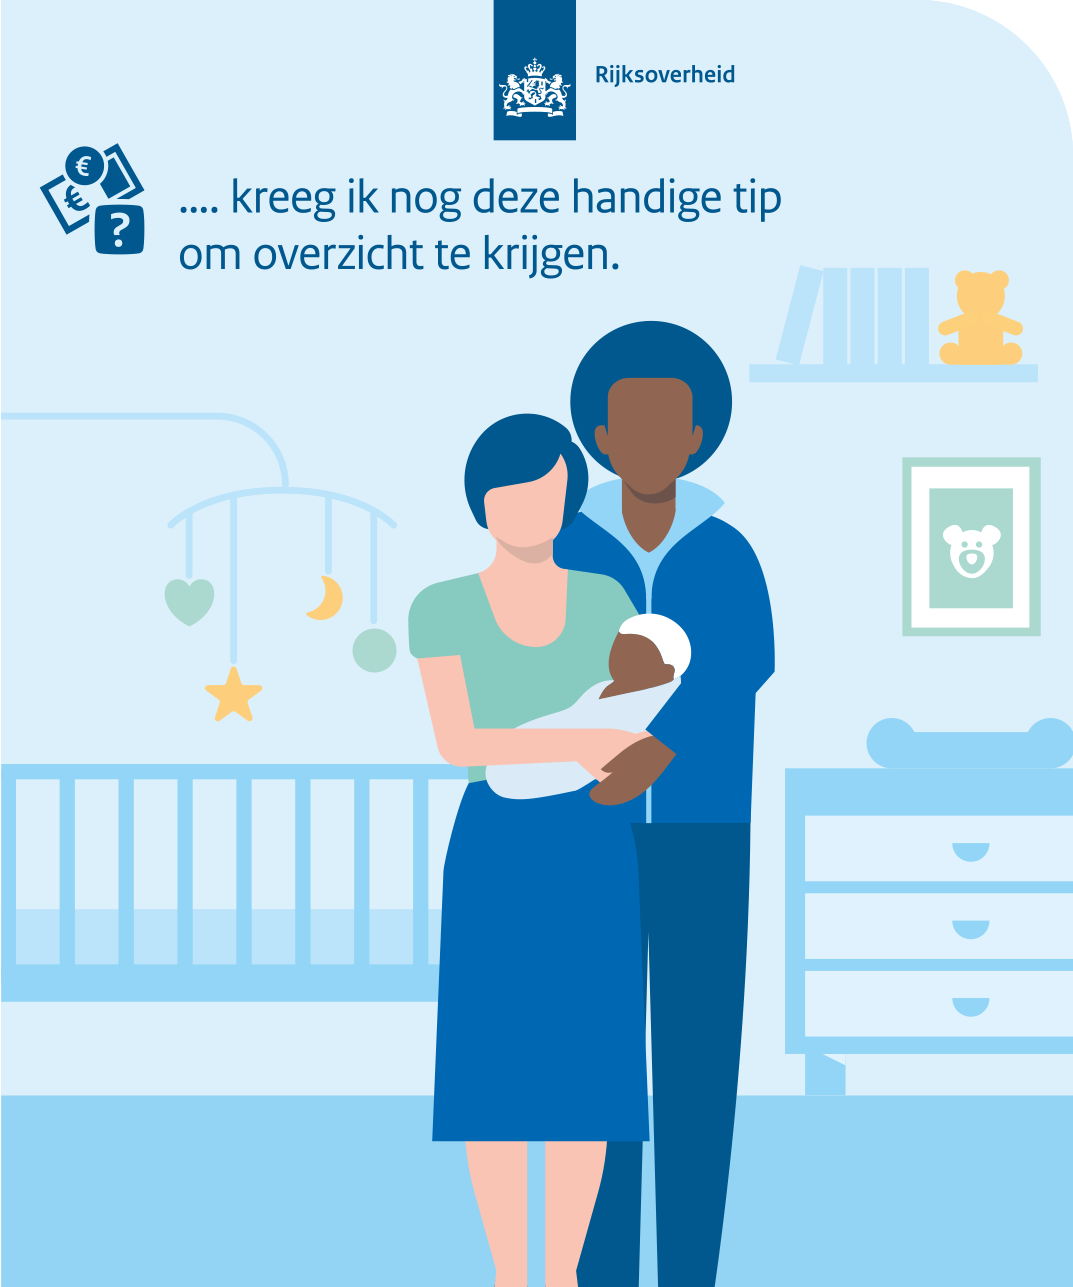
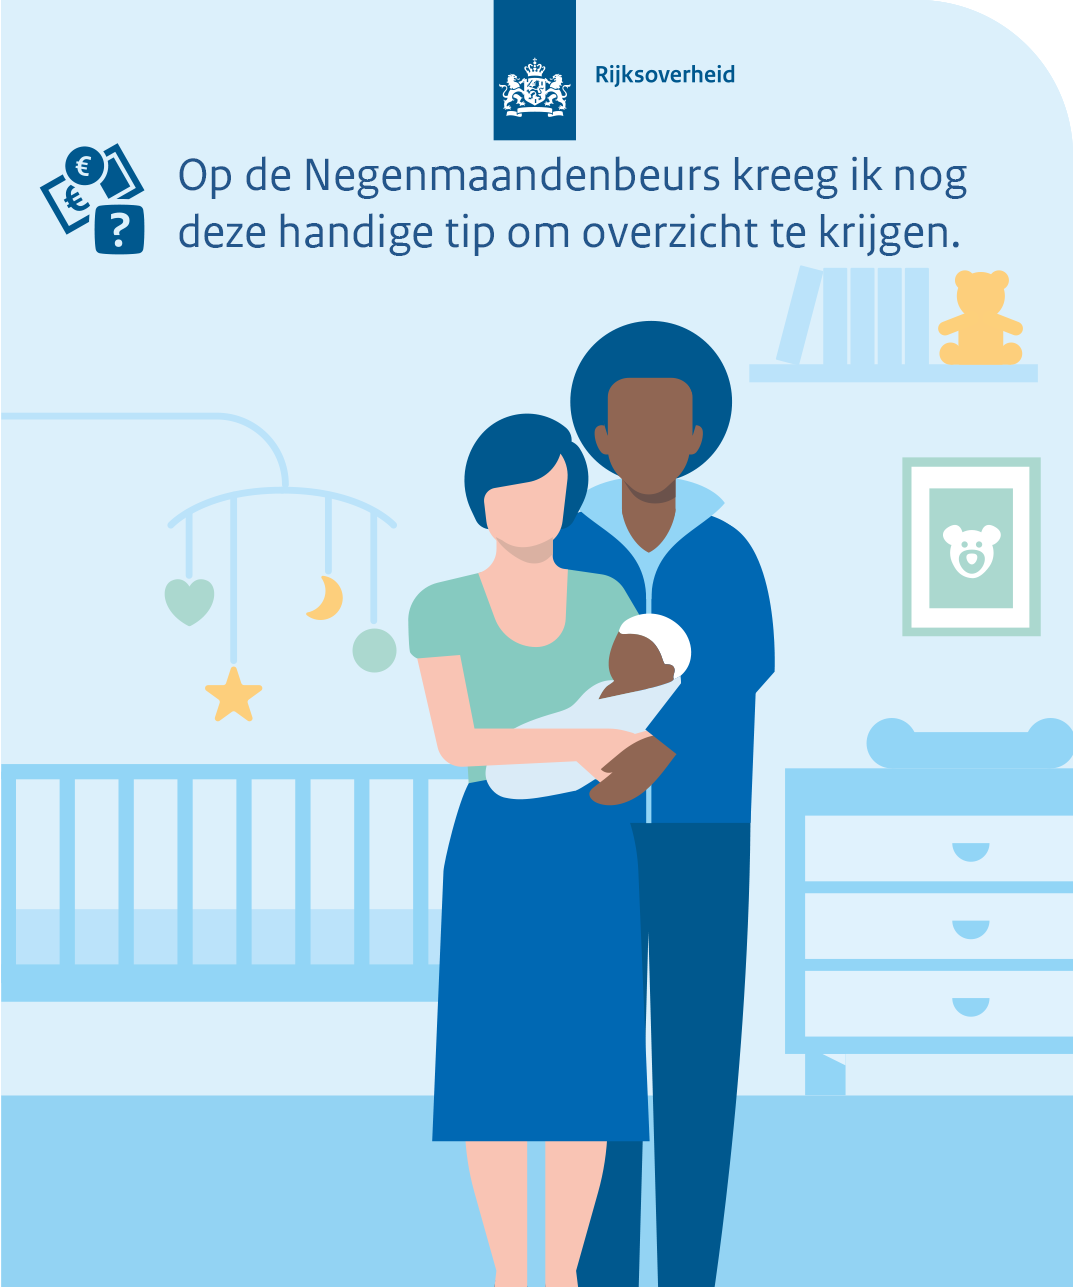
add small changers

Changed region(s): [[0.1538, 0.1243, 0.9226, 0.2176]]

diff --git a/resources/views/components/postcard-show.blade.php b/resources/views/components/postcard-show.blade.php
@@ -35,7 +35,7 @@ new class extends Component {
         $this->validate([
             'name' => 'required',
             'email' => 'required|email',
-            'message' => 'required',
+            'message' => 'nullable',
             'duration' => 'required',
             'consent' => 'accepted',
         ]);
@@ -94,7 +94,7 @@ new class extends Component {
             @if($submitted)
                 <div class="space-y-8 animate-fade-in">
                     <div class="space-y-4 mb-2">
-                        <h2 class="font-display text-3xl md:text-4xl font-bold text-[#23568b] leading-tight">Beste
+                        <h2 class="font-display text-3xl md:text-4xl font-bold text-[#23568b] leading-tight mb-6">Beste
                             {{ $name }},
                         </h2>
                         <p class="text-lg text-gray-700 leading-relaxed font-sans">
@@ -109,21 +109,81 @@ new class extends Component {
                     </div>
 
                     <div class="pt-8 space-y-3 mb-2">
-                        <button wire:click="resetForm" x-data="{ timeLeft: 15, timer: null }"
+                        <button wire:click="resetForm" x-data="{ timeLeft: 25, timer: null }"
                             x-init="timer = setInterval(() => { if(timeLeft > 0) { timeLeft--; } else { clearInterval(timer); $wire.resetForm(); } }, 1000)"
                             class="w-full inline-flex items-center justify-center px-6 py-2.5 border border-transparent text-sm font-medium rounded-full text-white bg-[#23568b] hover:bg-[#1a4066] focus:outline-none focus:ring-2 focus:ring-offset-2 focus:ring-[#23568b] transition-all duration-300 shadow-lg hover:shadow-xl transform hover:-translate-y-0.5 cursor-pointer">
                             Terug naar start (<span x-text="timeLeft"></span>s)
                         </button>
 
-                        <a href="https://google.nl" target="_blank"
-                            class="group w-full inline-flex items-center justify-center gap-2 px-6 py-2.5 border border-gray-200 shadow-sm text-sm font-medium rounded-full text-gray-700 bg-white hover:bg-[#23568b]/5 hover:border-[#23568b] hover:text-[#23568b] focus:outline-none focus:ring-2 focus:ring-offset-2 focus:ring-[#23568b] transition-all duration-300 cursor-pointer transform hover:scale-[1.02] active:scale-[0.98] hover:shadow-md">
-                            Persoonlijk overzicht
-                            <svg class="w-4 h-4 text-gray-400 group-hover:text-[#23568b] transition-colors" fill="none"
-                                stroke="currentColor" viewBox="0 0 24 24">
-                                <path stroke-linecap="round" stroke-linejoin="round" stroke-width="2"
-                                    d="M10 6H6a2 2 0 00-2 2v10a2 2 0 002 2h10a2 2 0 002-2v-4M14 4h6m0 0v6m0-6L10 14"></path>
-                            </svg>
-                        </a>
+                        <!-- <a href="https://google.nl" target="_blank"
+                                                                        class="group w-full inline-flex items-center justify-center gap-2 px-6 py-2.5 border border-gray-200 shadow-sm text-sm font-medium rounded-full text-gray-700 bg-white hover:bg-[#23568b]/5 hover:border-[#23568b] hover:text-[#23568b] focus:outline-none focus:ring-2 focus:ring-offset-2 focus:ring-[#23568b] transition-all duration-300 cursor-pointer transform hover:scale-[1.02] active:scale-[0.98] hover:shadow-md">
+                                                                        Persoonlijk overzicht
+                                                                        <svg class="w-4 h-4 text-gray-400 group-hover:text-[#23568b] transition-colors" fill="none"
+                                                                            stroke="currentColor" viewBox="0 0 24 24">
+                                                                            <path stroke-linecap="round" stroke-linejoin="round" stroke-width="2"
+                                                                                d="M10 6H6a2 2 0 00-2 2v10a2 2 0 002 2h10a2 2 0 002-2v-4M14 4h6m0 0v6m0-6L10 14"></path>
+                                                                        </svg>
+                                                                    </a> -->
+
+                        <div class="grid grid-cols-2 gap-8 mt-8">
+                            <div class="flex flex-col items-center space-y-4 relative group">
+                                <div
+                                    class="bg-white p-3 rounded-xl shadow-sm border border-gray-100 relative z-10 transition-transform duration-300 group-hover:scale-105">
+                                    <img src="{{ asset('images/checklist_kind_krijgen.png') }}"
+                                        alt="QR Code Checklist Kind Krijgen" class="w-32 h-32 object-contain">
+
+                                    <!-- User Provided Arrow (Points Top-Left from bottom-right) -->
+                                    <svg class="absolute -right-14 -bottom-6 w-16 h-16 text-[#23568b] transform -rotate-12 hidden md:block opacity-90"
+                                        viewBox="0 0 473.654 473.654" xmlns="http://www.w3.org/2000/svg"
+                                        fill="currentColor">
+                                        <path d="M143.386,111.189c27.011-17.31,54.018-34.625,81.029-51.939c2.891-1.855,5.688-1.249,7.632,0.471
+                                                                    c1.687,1.088,2.887,2.921,2.887,5.55c0,11.286,0,22.572,0,33.858
+                                                                    c81.47,3.841,145.372,69.122,146.958,151.221
+                                                                    c1.608,83.594-70.248,149.852-151.415,151.415
+                                                                    c-25.336,0.49-25.291-38.783,0-39.266
+                                                                    c62.073-1.197,110.953-50.077,112.15-112.15
+                                                                    c1.167-60.54-49.288-108.534-107.692-111.955
+                                                                    c0,10.25,0,20.5,0,30.751
+                                                                    c0,5.172-5.987,9.035-10.564,6.099
+                                                                    c-27.011-17.31-54.018-34.625-81.029-51.939
+                                                                    C138.794,120.396,138.869,114.087,143.386,111.189z" />
+                                    </svg>
+                                </div>
+                                <span
+                                    class="text-lg font-medium text-center text-[#23568b] leading-tight block w-full px-2 max-w-[200px]">
+                                    Persoonlijke overzicht bij het krijgen van een baby
+                                </span>
+                            </div>
+
+                            <div class="flex flex-col items-center space-y-4 relative group">
+                                <div
+                                    class="bg-white p-3 rounded-xl shadow-sm border border-gray-100 relative z-10 transition-transform duration-300 group-hover:scale-105">
+                                    <img src="{{ asset('images/checklist_having_a_baby.png') }}"
+                                        alt="QR Code Checklist Having a Baby" class="w-32 h-32 object-contain">
+
+                                    <!-- User Provided Arrow (Points from right side) -->
+                                    <svg class="absolute -right-14 -bottom-6 w-16 h-16 text-[#23568b] transform -rotate-12 hidden md:block opacity-90"
+                                        viewBox="0 0 473.654 473.654" xmlns="http://www.w3.org/2000/svg"
+                                        fill="currentColor">
+                                        <path d="M143.386,111.189c27.011-17.31,54.018-34.625,81.029-51.939c2.891-1.855,5.688-1.249,7.632,0.471
+                                                                    c1.687,1.088,2.887,2.921,2.887,5.55c0,11.286,0,22.572,0,33.858
+                                                                    c81.47,3.841,145.372,69.122,146.958,151.221
+                                                                    c1.608,83.594-70.248,149.852-151.415,151.415
+                                                                    c-25.336,0.49-25.291-38.783,0-39.266
+                                                                    c62.073-1.197,110.953-50.077,112.15-112.15
+                                                                    c1.167-60.54-49.288-108.534-107.692-111.955
+                                                                    c0,10.25,0,20.5,0,30.751
+                                                                    c0,5.172-5.987,9.035-10.564,6.099
+                                                                    c-27.011-17.31-54.018-34.625-81.029-51.939
+                                                                    C138.794,120.396,138.869,114.087,143.386,111.189z" />
+                                    </svg>
+                                </div>
+                                <span
+                                    class="text-lg font-medium text-center text-[#23568b] leading-tight block w-full px-2 max-w-[200px]">
+                                    Personal checklist having a baby
+                                </span>
+                            </div>
+                        </div>
                     </div>
                 </div>
             @else
@@ -160,13 +220,14 @@ new class extends Component {
                             <input type="email" id="email" wire:model="email"
                                 class="block w-full rounded-xl border-transparent bg-gray-50 pl-9 p-2.5 text-gray-900 shadow-sm transition-all duration-200 placeholder:text-gray-400 focus:bg-white hover:bg-white focus:border-[#23568b] focus:ring-[#23568b] focus:ring-1 text-sm">
                         </div>
-                        @error('email') <span class="text-red-500 text-sm ml-1">Het e-mailveld is verplicht.</span> @enderror
+                        @error('email') <span class="text-red-500 text-sm ml-1">Het e-mailveld is verplicht.</span>
+                        @enderror
                     </div>
 
                     {{-- Message --}}
                     <div class="space-y-1 mb-2">
                         <label for="message" class="block text-sm font-medium text-gray-500 ml-1">Boodschap aan
-                            mijzelf</label>
+                            mijzelf (optioneel)</label>
                         <div class="relative">
                             <div class="absolute top-3 left-3 flex items-start pointer-events-none">
                                 <svg class="h-4 w-4 text-gray-400" fill="none" viewBox="0 0 24 24" stroke="currentColor">
@@ -177,7 +238,8 @@ new class extends Component {
                             <textarea id="message" wire:model="message" rows="3"
                                 class="block w-full rounded-xl border-transparent bg-gray-50 pl-9 p-2.5 text-gray-900 shadow-sm transition-all duration-200 placeholder:text-gray-400 focus:bg-white hover:bg-white focus:border-[#23568b] focus:ring-[#23568b] focus:ring-1 text-sm"></textarea>
                         </div>
-                        @error('message') <span class="text-red-500 text-sm ml-1">Het boodschapveld is verplicht.</span> @enderror
+                        @error('message') <span class="text-red-500 text-sm ml-1">Het boodschapveld is verplicht.</span>
+                        @enderror
                     </div>
 
                     {{-- Duration --}}
@@ -195,7 +257,8 @@ new class extends Component {
                                 </label>
                             @endforeach
                         </div>
-                        @error('duration') <span class="text-red-500 text-sm ml-1">Het duurveld is verplicht.</span> @enderror
+                        @error('duration') <span class="text-red-500 text-sm ml-1">Het duurveld is verplicht.</span>
+                        @enderror
                     </div>
 
                     {{-- Consent --}}
@@ -207,7 +270,8 @@ new class extends Component {
                         <div class="ml-3 text-sm">
                             <label for="consent" class="font-medium text-gray-700">Ik geef toestemming dat mijn e-mail
                                 adres eenmalig wordt gebruikt, daarna worden mijn gegevens verwijderd.</label>
-                            @error('consent') <p class="text-red-500 text-xs mt-1">Het toestemmingveld is verplicht.</p> @enderror
+                            @error('consent') <p class="text-red-500 text-xs mt-1">Het toestemmingveld is verplicht.</p>
+                            @enderror
                         </div>
                     </div>
 

diff --git a/resources/views/components/postcard-index.blade.php b/resources/views/components/postcard-index.blade.php
@@ -23,6 +23,11 @@ new class extends Component {
 
     {{-- Main Content Column (Images) --}}
     <div class="w-full md:w-[60%] flex flex-col justify-center order-2 md:order-1">
+        <span
+            class="font-display text-md md:text-md font-semibold text-[#02588e] leading-[1.1] mb-4 tracking-tight animate-fade-up rounded-r-2xl py-2 px-2 bg-[#dcf0fb] w-full max-w-xl mx-auto md:ml-0"
+            style="animation-delay: 500ms;">
+            Kies één van de kaarten die voor jou nu van toepassing is.
+        </span>
         <div class="grid grid-cols-2 gap-5 w-full max-w-xl mx-auto md:ml-0">
             @php
                 $cards = [
